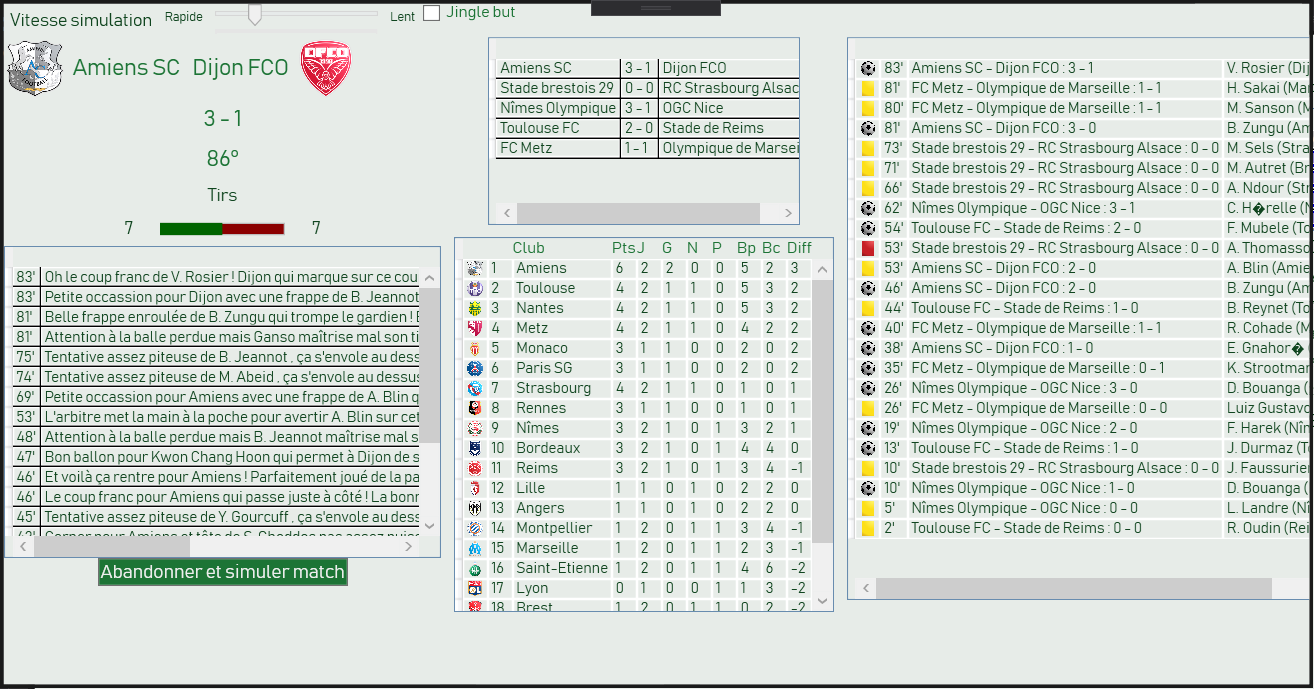
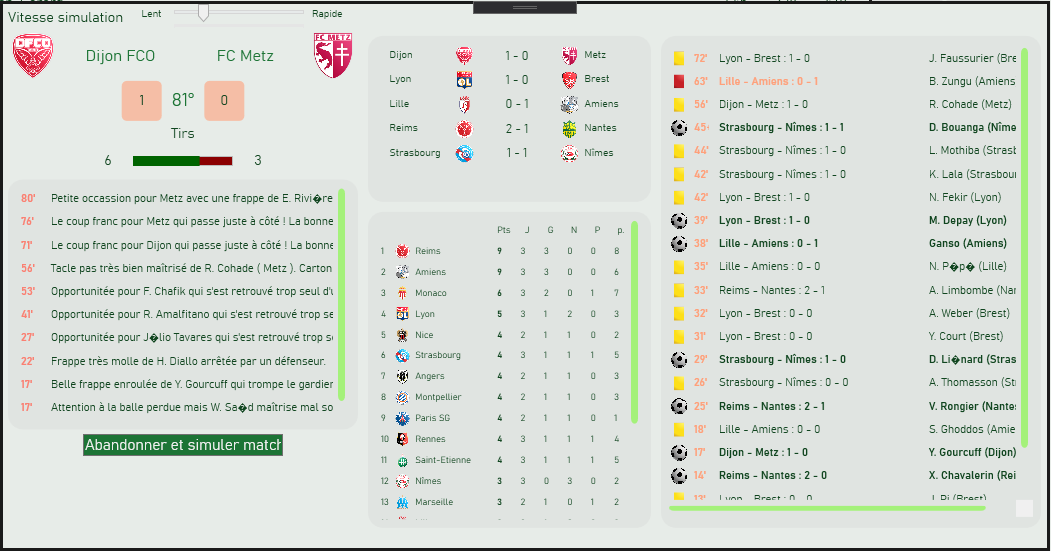
Work on live game screen

diff --git a/TheManager_GUI/PlayGameWindow.xaml b/TheManager_GUI/PlayGameWindow.xaml
@@ -19,89 +19,65 @@
 			<StackPanel Orientation="Horizontal">
 				<!-- mon match -->
 				<StackPanel Orientation="Vertical">
-					<StackPanel Orientation="Horizontal">
+					<StackPanel Orientation="Horizontal" HorizontalAlignment="Center">
 						<Image Name="imgEquipe1" Width="50" Height="50" Source="generic.png"></Image>
-						<Label Name="lbEquipe1" VerticalAlignment="Center" Content="SC Amiens" Style="{StaticResource StyleLabel1}"/>
-						<Label Name="lbEquipe2" VerticalAlignment="Center" Content="Dijon FCO" Style="{StaticResource StyleLabel1}"/>
+						<Label Name="lbEquipe1" VerticalAlignment="Center" FontSize="16" Content="SC Amiens" Width="125" Style="{StaticResource StyleLabel1}"/>
+						<Label Name="lbEquipe2" VerticalAlignment="Center" FontSize="16" Content="Valenciennes FC" Width="125" Style="{StaticResource StyleLabel1}"/>
 						<Image Name="imgEquipe2" Width="50" Height="50" Source="generic.png"></Image>
 					</StackPanel>
-					<Label Name="lbScore" Content="1 - 0" Style="{StaticResource StyleLabel1}"/>
-					<Label Name="lbTemps" Content="45°" Style="{StaticResource StyleLabel1}"/>
+					<StackPanel Orientation="Horizontal" HorizontalAlignment="Center">
+						<Border Style="{StaticResource StyleBorderCalendarToday}" Width="40" Height="40" CornerRadius="5" Margin="0,0,5,0">
+							<Label Name="lbScore1" Content="4" Style="{StaticResource StyleLabel2}" HorizontalContentAlignment="Center" VerticalContentAlignment="Center"/>
+						</Border>
+						<Label Name="lbTemps" Content="45°" Style="{StaticResource StyleLabel1}" VerticalAlignment="Center"/>
+						<Border Style="{StaticResource StyleBorderCalendarToday}" Width="40" Height="40" CornerRadius="5" Margin="5,0,0,0">
+							<Label Name="lbScore2" Content="4" Style="{StaticResource StyleLabel2}" HorizontalContentAlignment="Center" VerticalContentAlignment="Center"/>
+						</Border>
+					</StackPanel>
+
 					<Label Style="{StaticResource StyleLabel2}" HorizontalAlignment="Center" Content="Tirs"/>
 					<StackPanel Orientation="Horizontal" HorizontalAlignment="Center">
 						<Label Name="lbTirs1" Content="50" Width="50" HorizontalContentAlignment="Center" Style="{StaticResource StyleLabel2}"/>
 						<ProgressBar Name="pbTirs" Minimum="0" Maximum="100" Value="50" Width="100" Height="10" Foreground="DarkGreen" Background="DarkRed" />
 						<Label Name="lbTirs2" Content="10" Width="50" HorizontalContentAlignment="Center" Style="{StaticResource StyleLabel2}"/>
 					</StackPanel>
-					<DataGrid IsReadOnly="True" Height="250" Width="350" Name="dgActions" Style="{StaticResource StyleDataGrid}" CellStyle="{StaticResource StyleDataCellGrid}" ColumnHeaderStyle="{StaticResource StyleDataHeaderGrid}">
-						<DataGrid.Columns>
-							<DataGridTextColumn Header="" Binding="{Binding Minute}"/>
-							<DataGridTextColumn Header="" Binding="{Binding Action}">
-								<DataGridTextColumn.EditingElementStyle>
-									<Style TargetType="TextBox">
-										<Setter Property="TextWrapping" Value="Wrap" />
-										<Setter Property="AcceptsReturn" Value="true" />
-									</Style>
-								</DataGridTextColumn.EditingElementStyle>
-							</DataGridTextColumn>
-						</DataGrid.Columns>
-					</DataGrid>
+					<Border Style="{StaticResource StyleBorderStackPanel}" Margin="5" Height="250" Width="350">
+						<ScrollViewer VerticalScrollBarVisibility="Auto">
+							<StackPanel Orientation="Vertical" Name="spActions">
+
+							</StackPanel>
+						</ScrollViewer>
+					</Border>
 					<Button Name="btnSimuler" Content="Abandonner et simuler match" Width="200" Click="BtnSimuler_Click" Style="{StaticResource StyleButton1}"/>
 					<Button Name="btnTerminer" Content="Quitter" Visibility="Hidden" Width="200" Click="BtnTerminer_Click" Style="{StaticResource StyleButton1}"/>
 				</StackPanel>
 				<!-- infos compet -->
 				<StackPanel Orientation="Vertical">
-					<DataGrid IsReadOnly="True" Height="150" MaxWidth="250" Name="dgMatchs" Style="{StaticResource StyleDataGrid}" CellStyle="{StaticResource StyleDataCellGrid}" ColumnHeaderStyle="{StaticResource StyleDataHeaderGrid}">
-						<DataGrid.Columns>
-							<DataGridTextColumn Header="" Binding="{Binding Equipe1}"/>
-							<DataGridTextColumn Header="" Binding="{Binding Score}"/>
-							<DataGridTextColumn Header="" Binding="{Binding Equipe2}"/>
-						</DataGrid.Columns>
-					</DataGrid>
-					<DataGrid Margin="10" IsReadOnly="True" Height="300" GridLinesVisibility="None" Name="dgClassement" Style="{StaticResource StyleDataGrid}" ColumnHeaderStyle="{StaticResource StyleDataHeaderGrid}">
-						<DataGrid.Columns>
-							<DataGridTemplateColumn Width="18">
-								<DataGridTemplateColumn.CellTemplate>
-									<DataTemplate>
-										<Image Source="{Binding Logo}" />
-									</DataTemplate>
-								</DataGridTemplateColumn.CellTemplate>
-							</DataGridTemplateColumn>
-							<DataGridTextColumn Header="" Binding="{Binding Classement}"/>
-							<DataGridTextColumn Header="Club" Binding="{Binding Nom}"/>
-							<DataGridTextColumn Header="Pts" Binding="{Binding Pts}"/>
-							<DataGridTextColumn Header="J" Binding="{Binding J}"/>
-							<DataGridTextColumn Header="G" Binding="{Binding G}"/>
-							<DataGridTextColumn Header="N" Binding="{Binding N}"/>
-							<DataGridTextColumn Header="P" Binding="{Binding P}"/>
-							<DataGridTextColumn Header="Bp" Binding="{Binding bp}"/>
-							<DataGridTextColumn Header="Bc" Binding="{Binding bc}"/>
-							<DataGridTextColumn Header="Diff" Binding="{Binding Diff}"/>
-						</DataGrid.Columns>
-						<DataGrid.CellStyle>
-							<Style TargetType="{x:Type DataGridCell}" BasedOn="{StaticResource StyleDataCellGrid}">
 
-							</Style>
-						</DataGrid.CellStyle>
-					</DataGrid>
+					<Border Style="{StaticResource StyleBorderStackPanel}" Margin="5">
+						<ScrollViewer VerticalScrollBarVisibility="Auto" Height="150">
+							<StackPanel x:Name="spGames" Orientation="Vertical" Width="250">
+
+							</StackPanel>
+						</ScrollViewer>
+					</Border>
+					
+					<Border Style="{StaticResource StyleBorderStackPanel}" Margin="5">
+						<ScrollViewer VerticalScrollBarVisibility="Auto" Height="300">
+							<StackPanel x:Name="spRanking" Orientation="Vertical" Width="250">
+
+							</StackPanel>
+						</ScrollViewer>
+
+					</Border>
 				</StackPanel>
 				<!-- info autres matchs -->
-				<StackPanel Orientation="Vertical">
-					<DataGrid GridLinesVisibility="None" IsReadOnly="True" Height="450" Width="400" Name="dgEvenements" Style="{StaticResource StyleDataGrid}" CellStyle="{StaticResource StyleDataCellGrid}" ColumnHeaderStyle="{StaticResource StyleDataHeaderGrid}">
-						<DataGrid.Columns>
-							<DataGridTemplateColumn Width="18">
-								<DataGridTemplateColumn.CellTemplate>
-									<DataTemplate>
-										<Image Source="{Binding Logo}" />
-									</DataTemplate>
-								</DataGridTemplateColumn.CellTemplate>
-							</DataGridTemplateColumn>
-							<DataGridTextColumn Header="" Binding="{Binding Minute}"/>
-							<DataGridTextColumn Header="" Binding="{Binding Evenement}"/>
-							<DataGridTextColumn Header="" Binding="{Binding Joueur}"/>
-						</DataGrid.Columns>
-					</DataGrid>
-				</StackPanel>
+				<Border Style="{StaticResource StyleBorderStackPanel}" Width="380" Margin="5">
+					<ScrollViewer HorizontalScrollBarVisibility="Auto" VerticalScrollBarVisibility="Auto" Height="470">
+						<StackPanel Orientation="Vertical" Name="spOtherActions">
+						</StackPanel>
+					</ScrollViewer>
+				</Border>
 			</StackPanel>
 			
 		</StackPanel>

diff --git a/TheManager_GUI/PlayGameWindow.xaml.cs b/TheManager_GUI/PlayGameWindow.xaml.cs
@@ -3,8 +3,11 @@ using System.Collections.Generic;
 using System.Threading;
 using System.Threading.Tasks;
 using System.Windows;
+using System.Windows.Controls;
 using System.Windows.Media.Imaging;
 using TheManager;
+using TheManager_GUI.ViewMisc;
+using TheManager_GUI.VueClassement;
 
 namespace TheManager_GUI
 {
@@ -69,7 +72,14 @@ namespace TheManager_GUI
 
                 if (afficherAction)
                 {
-                    dgEvenements.Items.Insert(0, new MatchLiveEvenementElement { Logo = Utils.Image(icone), Minute = em.MinuteToString, Joueur = em.player.lastName + " (" + em.player.Club.shortName + ")", Evenement = game.home + " - " + game.away + " : " + game.score1 + " - " + game.score2 });
+                    StackPanel spAction = new StackPanel();
+                    spAction.Orientation = Orientation.Horizontal;
+
+                    spAction.Children.Add(ViewUtils.CreateImage(Utils.Image(icone), 20, 20));
+                    spAction.Children.Add(ViewUtils.CreateLabel(em.MinuteToString, "StyleLabel2", 11, 25, System.Windows.Media.Brushes.LightSalmon, null, true));
+                    spAction.Children.Add(ViewUtils.CreateLabel(game.home.shortName + " - " + game.away.shortName + " : " + game.score1 + " - " + game.score2, "StyleLabel2", 11, 210, icone == "red_card.png" ? System.Windows.Media.Brushes.LightSalmon : null, null, icone == "goal.png" || icone == "red_card.png"));
+                    spAction.Children.Add(ViewUtils.CreateLabel(em.player.lastName + " (" + em.player.Club.shortName + ")", "StyleLabel2", 11, 125, null, null, icone == "goal.png"));
+                    spOtherActions.Children.Insert(0,spAction);
                 }
 
                 if (game == _matchs[0])
@@ -83,7 +93,8 @@ namespace TheManager_GUI
             if (game == _matchs[0])
             {
                 lbTemps.Content = game.Time;
-                lbScore.Content = game.score1 + " - " + game.score2;
+                lbScore1.Content = game.score1;
+                lbScore2.Content = game.score2;
                 lbTirs1.Content = game.statistics.HomeShoots;
                 lbTirs2.Content = game.statistics.AwayShoots;
                 pbTirs.Maximum = game.statistics.HomeShoots + game.statistics.AwayShoots;
@@ -166,38 +177,32 @@ namespace TheManager_GUI
 
         private void ActionsMatch()
         {
-            dgActions.Items.Clear();
-            foreach(KeyValuePair<string,string> kvp in _matchs[0].actions)
+
+            List<KeyValuePair<string, string>> reversedActions = new List<KeyValuePair<string, string>>(_matchs[0].actions);
+            reversedActions.Reverse();
+            spActions.Children.Clear();
+            foreach (KeyValuePair<string, string> kvp in reversedActions)
             {
-                dgActions.Items.Insert(0,new MatchLiveAction { Minute = kvp.Key, Action = kvp.Value });
+                StackPanel spAction = new StackPanel();
+                spAction.Orientation = Orientation.Horizontal;
+                spAction.Children.Add(ViewUtils.CreateLabel(kvp.Key, "StyleLabel2", 11, 30, System.Windows.Media.Brushes.Salmon, null, true));
+                spAction.Children.Add(ViewUtils.CreateLabel(kvp.Value, "StyleLabel2", 11, -1));
+                spActions.Children.Add(spAction);
             }
         }
 
         private void Matchs()
         {
-            dgMatchs.Items.Clear();
-            foreach(Match match in _matchs)
-            {
-                dgMatchs.Items.Add(new MatchLiveElement { Equipe1 = match.home, Equipe2 = match.away, Score = match.score1 + " - " + match.score2 });
-            }
+            ViewMatches view = new ViewMatches(_matchs, false, false, false, false, false, false);
+            view.Full(spGames);
         }
 
         private void Classement()
         {
             if(_tour != null)
             {
-                dgClassement.Items.Clear();
-                ChampionshipRound tc = _tour as ChampionshipRound;
-                if(tc != null)
-                {
-                    int i = 1;
-                    List<Club> classement = tc.Ranking();
-                    foreach(Club c in classement)
-                    {
-                        dgClassement.Items.Add(new ClassementElement { Classement = i, Club = c, Logo = Utils.Logo(c), Nom = c.shortName, Pts = tc.Points(c), J = tc.Played(c), bc = tc.GoalsAgainst(c), bp = tc.GoalsFor(c), Diff = tc.Difference(c), G = tc.Wins(c), N = tc.Draws(c), P = tc.Loses(c) });
-                        i++;
-                    }
-                }
+                View view = FactoryViewRanking.CreerVue(null, _tour, 0.65, false, null, false) ;
+                view.Full(spRanking);
             }
         }
 

diff --git a/TheManager_GUI/ViewRanking/ViewUtils.cs b/TheManager_GUI/ViewRanking/ViewUtils.cs
@@ -100,6 +100,16 @@ namespace TheManager_GUI
             return sprite;
         }
 
+        public static Image CreateImage(string path, double width, double height)
+        {
+            Image sprite = new Image();
+            sprite.Source = new BitmapImage(new Uri(path, UriKind.RelativeOrAbsolute));
+            sprite.Width = width;
+            sprite.Height = height;
+            return sprite;
+
+        }
+
         public static Image CreateFlag(Country country, double width, double height)
         {
             Image sprite = new Image();

diff --git a/TheManager/Match.cs b/TheManager/Match.cs
@@ -302,6 +302,7 @@ namespace TheManager
                 string time = tmp.ToString();
                 if (tmpAdd > 0)
                 {
+                    time = _period == 1 ? "45" : _period == 2 ? "90" : _period == 3 ? "105" : "120"; 
                     time += "+" + tmpAdd;
                 }
                 time += "°";
